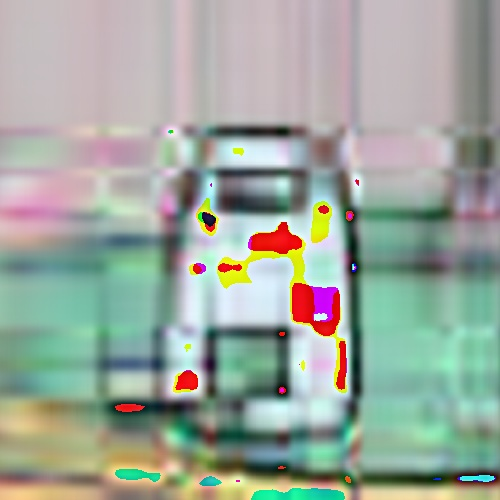
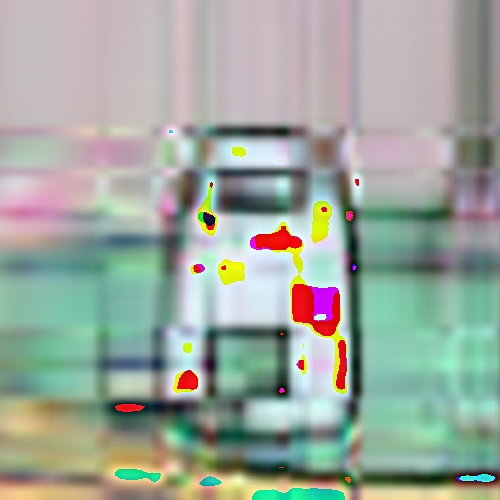
Fix Sigma algorithm

diff --git a/OperasiMatriks.py b/OperasiMatriks.py
@@ -67,12 +67,10 @@ def substractMat(m1,m2):    #m1-m2
     return res
 
 def findEigen(m):
-    mat = copy.deepcopy(m)
-    while(True):
+    # mat = copy.deepcopy(m)
+    for i in range(5):
         q, r = np.linalg.qr(m)
         m = r @ q
-        if len(r) >= len(mat[0]):
-            break
     # Algortima QR
     row = len(r)
     eig = []
@@ -164,12 +162,19 @@ def findBase(m):
 
 def findMatrixSigma(m):
     mT = transpose(m)
-    M = multiply_matrix(m,mT)
+    M = np.matmul(m,mT)
     eig = findEigen(M)
-    result = [[0 for j in range(len(m[0]))] for i in range(len(m))]
-    for k in range(len(m[0])):
-        result[k][k] = eig[k]**0.5
-        # print(i)
+    if (len(m[0])<len(m)):
+        result = [[0.0 for j in range(len(m[0]))] for i in range(len(m))]
+        for k in range(len(m[0])):
+            result[k][k] = eig[k]**0.5
+            # print(i)
+    else:
+        result = [[0.0 for j in range(len(m))] for i in range(len(m[0]))]
+        for k in range(len(m)):
+            result[k][k] = eig[k]**0.5
+            # print(i)
+
     return result
 
 def normalize_vector(v):
@@ -225,7 +230,8 @@ def compressImg(imgpath, percent):
     
     #BMat SVD Decomposition
     
-    U, S, Vt = svd(BMat)
+    U, Sig, Vt = svd(BMat)
+    S = findMatrixSigma(BMat)
     k = int((percent/100) * len(U[0]))
     print(k)
     UNew = [[0 for j in range(k)] for i in range(len(U))]
@@ -235,9 +241,12 @@ def compressImg(imgpath, percent):
     U = UNew
 
     SNew = [[0 for j in range(k)] for i in range(k)]
+    print(k)
     for i in range(k):
-        SNew[i][i] = S[i]
+        SNew[i][i] = S[i][i]
     S = SNew
+    # print()
+    # print(S)
 
     VtNew = []
     for i in range(k):
@@ -246,13 +255,19 @@ def compressImg(imgpath, percent):
     
     # print(f"{len(U)} x {len(U[0])}")
     # print(f"{len(S)} x {len(S[0])}")
+    # print(U)
+    # print()
+    # print(S)
     US = np.matmul(U,S)
+    # print()
+    # print(US)
     # print(len(US[0]))
     # print(len(Vt))
     BRes = np.matmul(US,Vt)
 
     #GMat SVD Decomposition
-    U, S, Vt = svd(GMat)
+    U, Sig, Vt = svd(GMat)
+    S = findMatrixSigma(GMat)
     k = int((percent/100) * len(U[0]))
     print(k)
     UNew = [[0 for j in range(k)] for i in range(len(U))]
@@ -263,7 +278,7 @@ def compressImg(imgpath, percent):
 
     SNew = [[0 for j in range(k)] for i in range(k)]
     for i in range(k):
-        SNew[i][i] = S[i]
+        SNew[i][i] = S[i][i]
     S = SNew
 
     VtNew = []
@@ -275,7 +290,8 @@ def compressImg(imgpath, percent):
     GRes = np.matmul(US,Vt)
 
     #RMat SVD Decomposition
-    U, S, Vt = svd(RMat)
+    U, Sig, Vt = svd(RMat)
+    S = findMatrixSigma(RMat)
     k = int((percent/100) * len(U[0]))
     print(k)
     UNew = [[0 for j in range(k)] for i in range(len(U))]
@@ -286,7 +302,7 @@ def compressImg(imgpath, percent):
 
     SNew = [[0 for j in range(k)] for i in range(k)]
     for i in range(k):
-        SNew[i][i] = S[i]
+        SNew[i][i] = S[i][i]
     S = SNew
 
     VtNew = []

diff --git a/test.py b/test.py
@@ -2,9 +2,9 @@
 import numpy as np
 from tabulate import tabulate
 
-#from OperasiMatriks import *
-#from sympy import *
-#from scipy.linalg import svd
+from OperasiMatriks import *
+from sympy import *
+from scipy.linalg import svd
 
 #find eigen vector for one matrix
 # m = [
@@ -32,9 +32,9 @@ from tabulate import tabulate
 # displayMatrix(X)
 
 #opencv tester
-#path1 = "amogus.jpg"
-#path2 = "test.jpeg"
-#path3 = "pixel.png"
+path1 = "amogus.jpg"
+path2 = "test.jpeg"
+path3 = "pixel.png"
 # mat = ImgToMat(path1)
 #column - row - element (B-G-R) each elem
 # print(mat[499])
@@ -56,7 +56,7 @@ from tabulate import tabulate
 # cv2.waitKey(0)
 
 #compress 95%
-#compressImg(path1, 99)
+compressImg(path1, 99)
 
 
 # b,g,r = cv2.split(mat)
@@ -90,5 +90,5 @@ from tabulate import tabulate
 # print(tabulate(r@q))
 # print(findEigen(m2))
 
-l = [ [ [1,1,1], [2,2,2] ],[[1,1,1]]]
-print(len(l[0]))
+# l = [ [ [1,1,1], [2,2,2] ],[[1,1,1]]]
+# print(len(l[0]))
